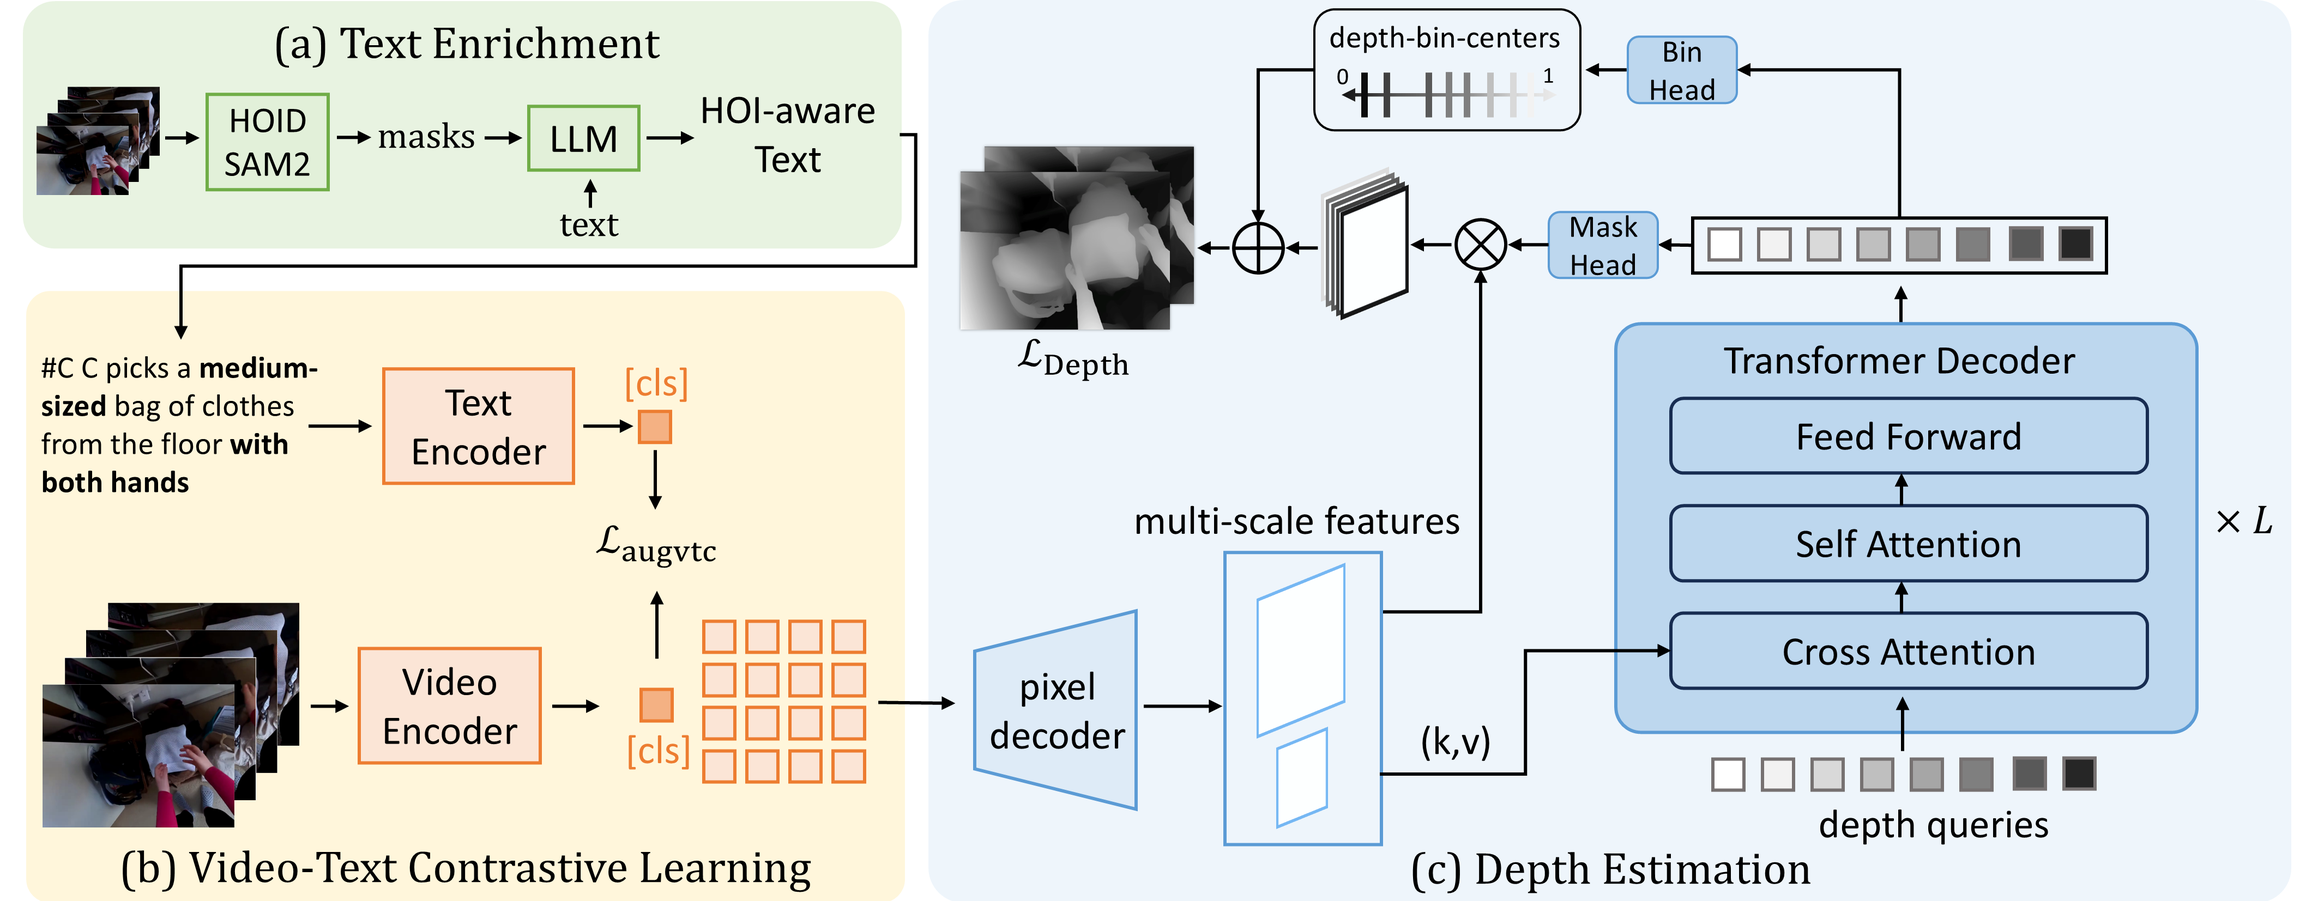
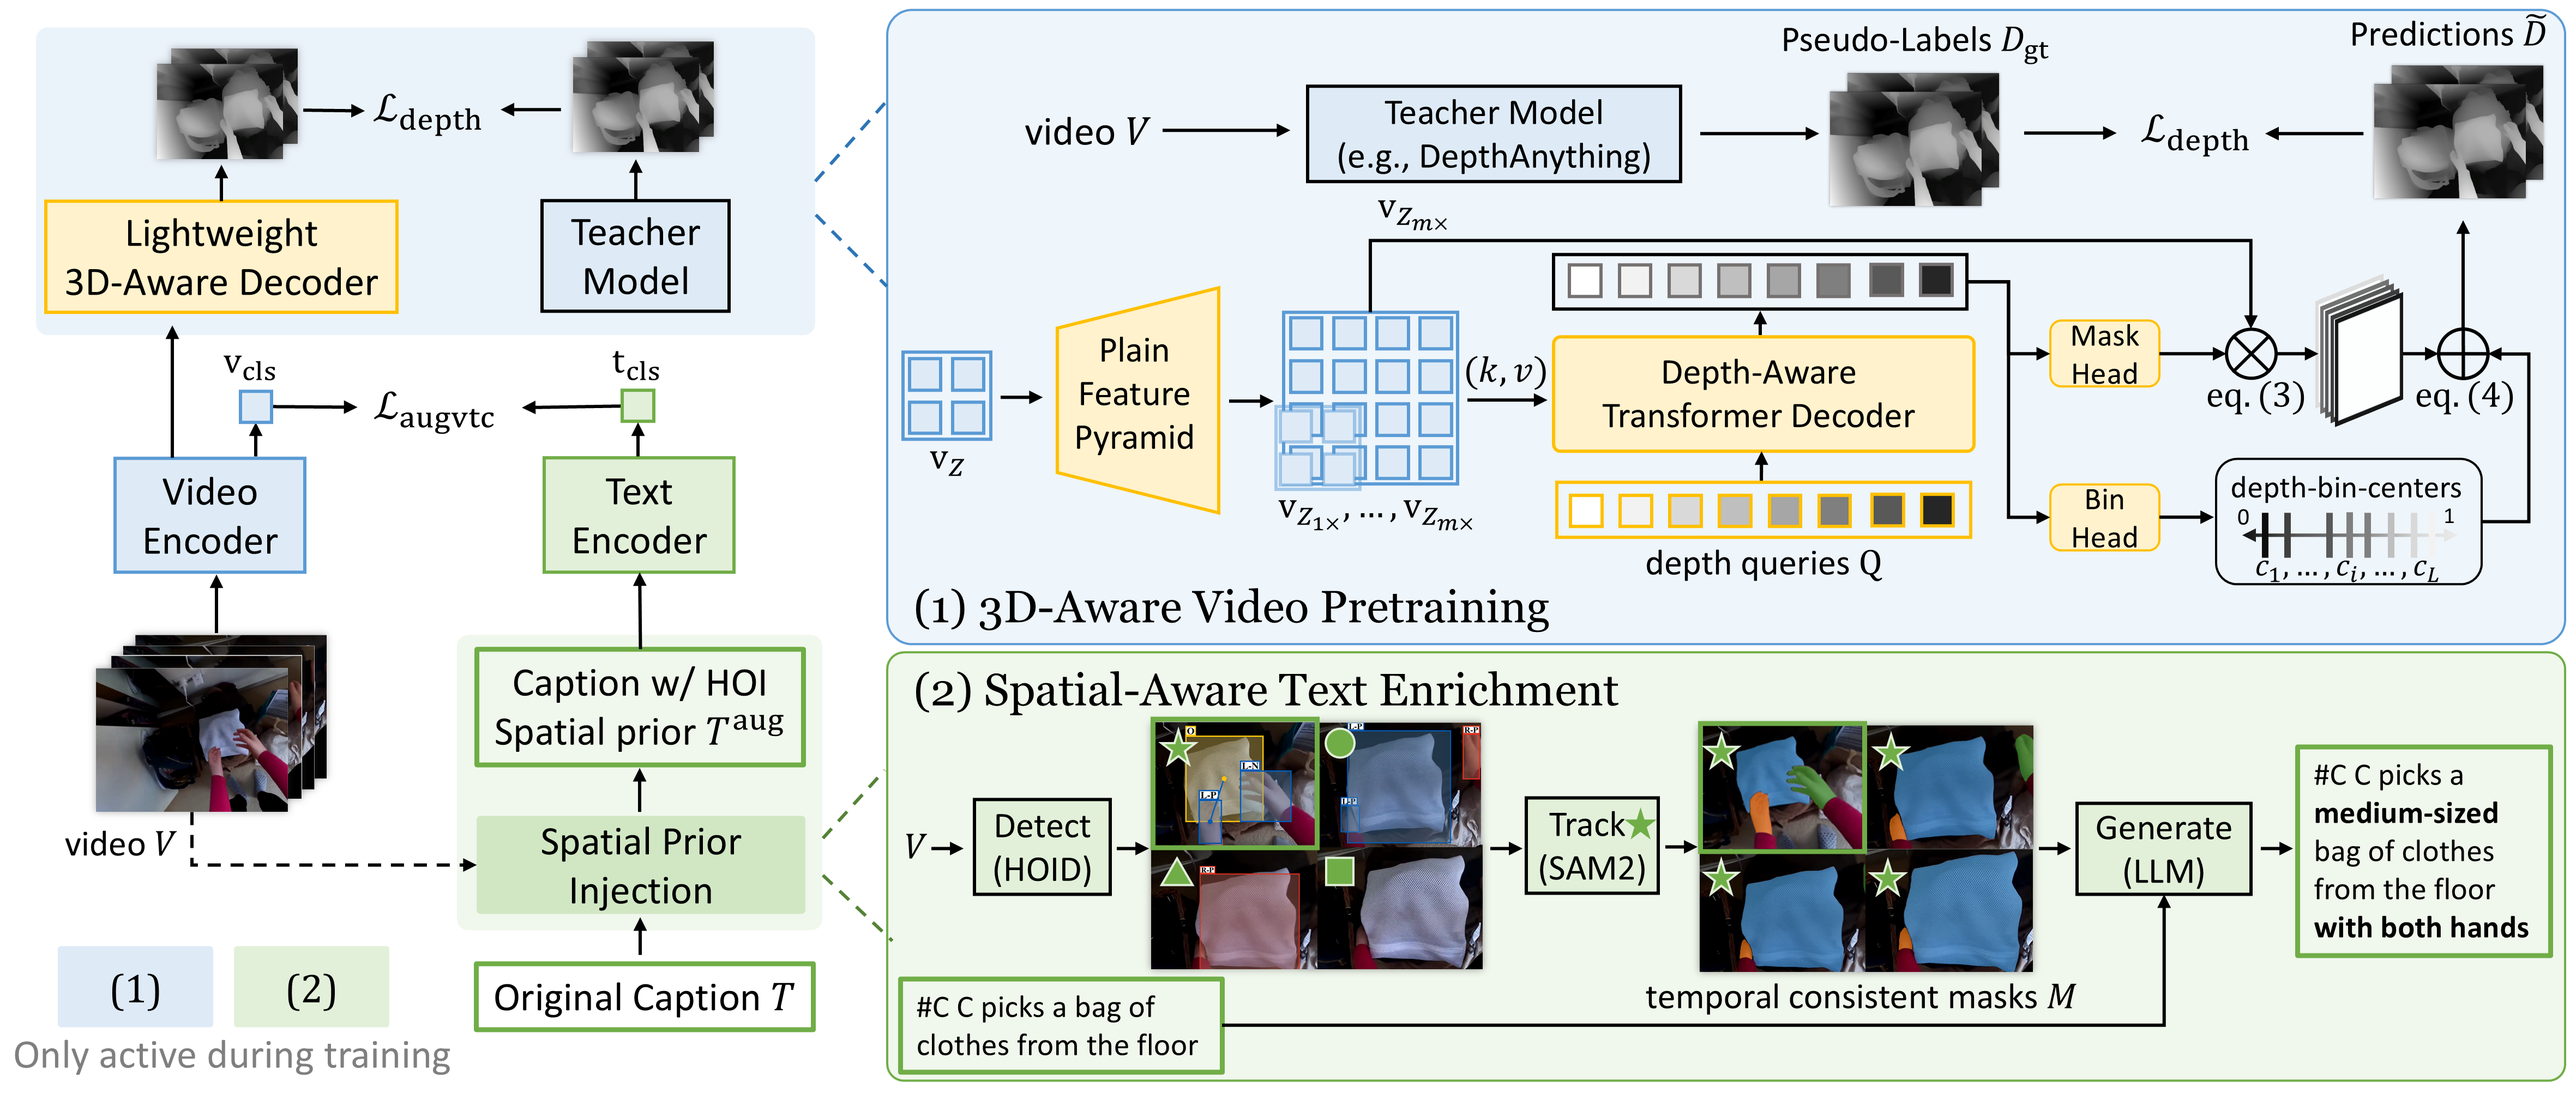
EgoDTM update version

diff --git a/README.md b/README.md
@@ -1,5 +1,5 @@
 <h1 align="center">
-  Learning 3D-Aware Representation for Egocentric Video-Language Models
+  EgoDTM: Towards 3D-Aware Egocentric Video-Language Pretraining
 </h1>
 
 
@@ -7,20 +7,21 @@
 <a target="_blank"><img src="assets/paper/method.png" alt="method" style="width: 80%; min-width: 200px; display: block; margin: auto;"></a>
 </p>
 
-We introduce EgoDTM, an **Ego**centric **D**epth- and **T**ext-aware video-language **M**odel, trained through multimodal pretraining. 
+We introduce EgoDTM, an **Ego**centric **D**epth- and **T**ext-aware video-language **M**odel. 
 
 ## Table of Contents
+- [Table of Contents](#table-of-contents)
 - [Overview](#overview)
 - [Installation](#installation)
-- [Datasets](#datasets)
+- [Data Generation](#data-generation)
 - [Training](#training)
-- [Models](#models)
+- [Visualization](#visualization)
 
 
 ## Overview
-- We introduce EgoDTM, a pretraining framework integrating both depth and text to create a 3D-aware egocentric video-language model.
-- We develop an automated pipeline for generating multimodal data at scale for egocentric videos, including text, HOI bounding boxes, spatial-temporal consistent HOI masks, and depth maps.
-- Extensive experimental results show that EgoDTM significantly enhances performance on video understanding tasks, robot manipulation tasks in simulated environments, and presents great generalization to estimate depths in unseen environments. 
+- We introduce EgoDTM, a 3D-aware egocentric video-language model learned from 3D-aware video-language pretraining 
+- We develop a lightweight 3D-aware decoder for depth estimation and a ata construction pipeline to enrich captions with spatial information. As a byprouct, we generate millions of egocentric ata, including captions, HOI boxes, HOI masks, and depth maps.
+- Extensive experimental results show that EgoDTM significantly enhances performance on video understanding tasks and 3D understanding tasks.
 
 ## Installation
 
